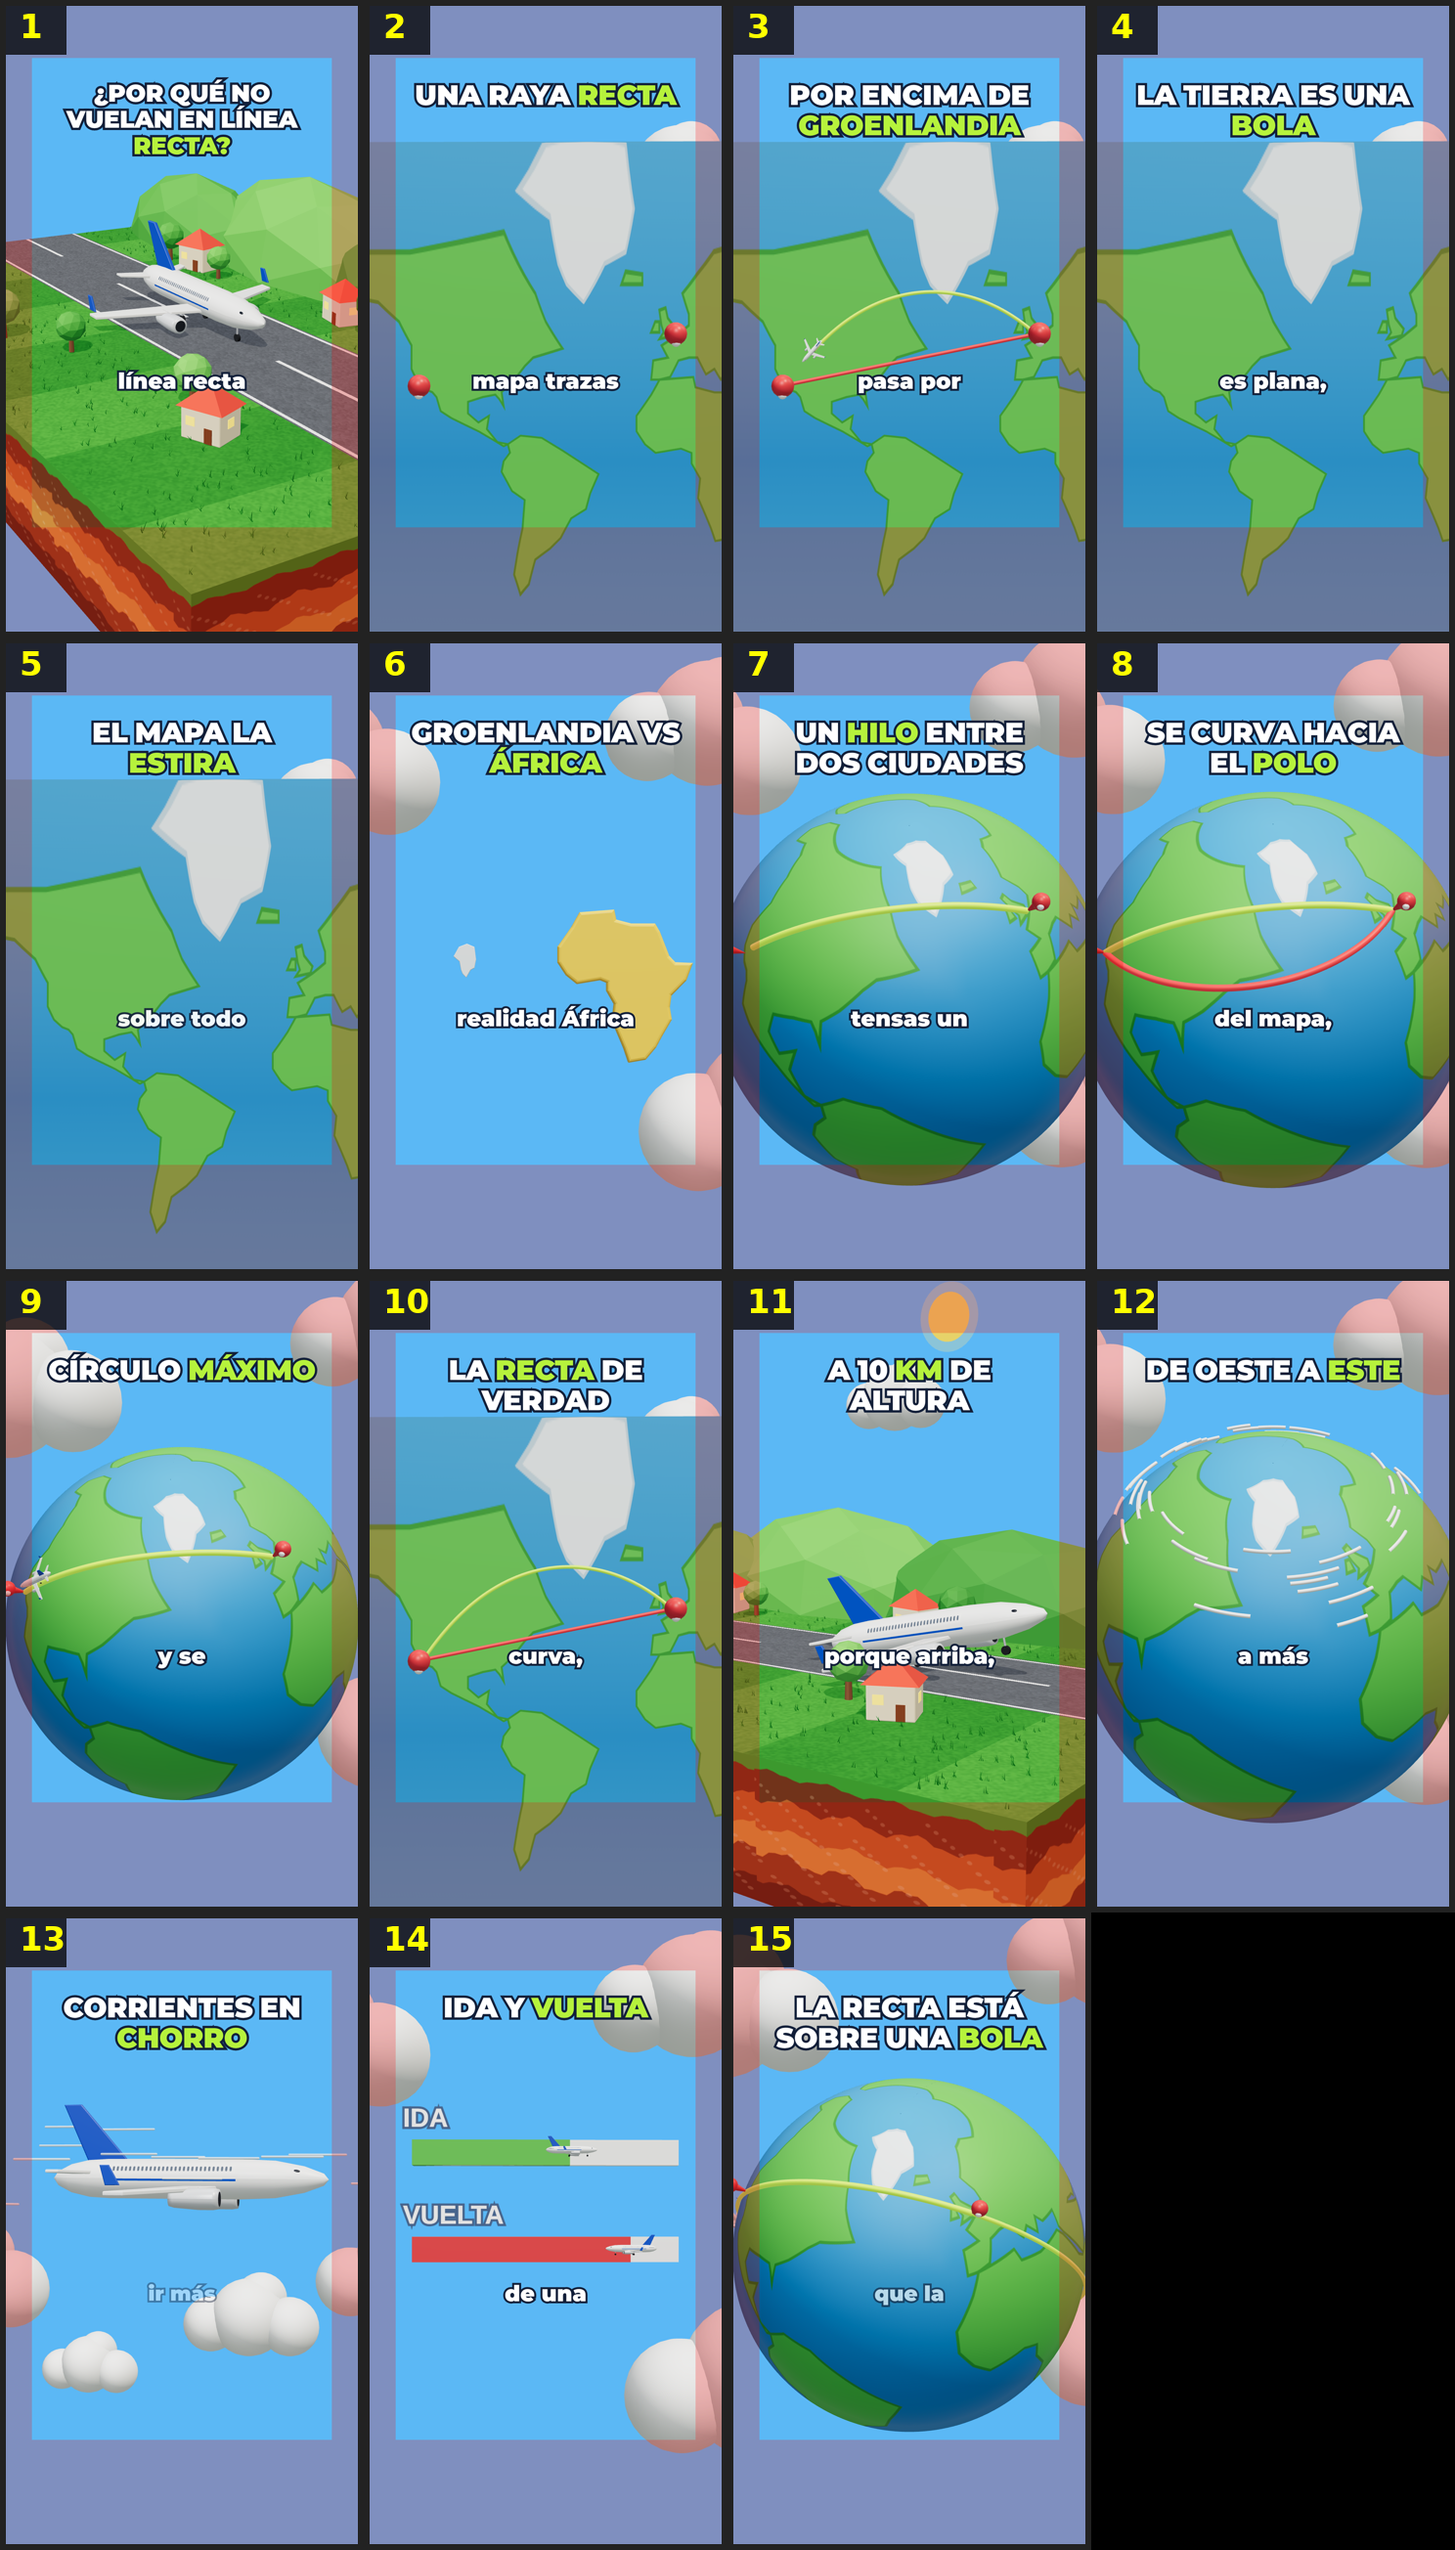
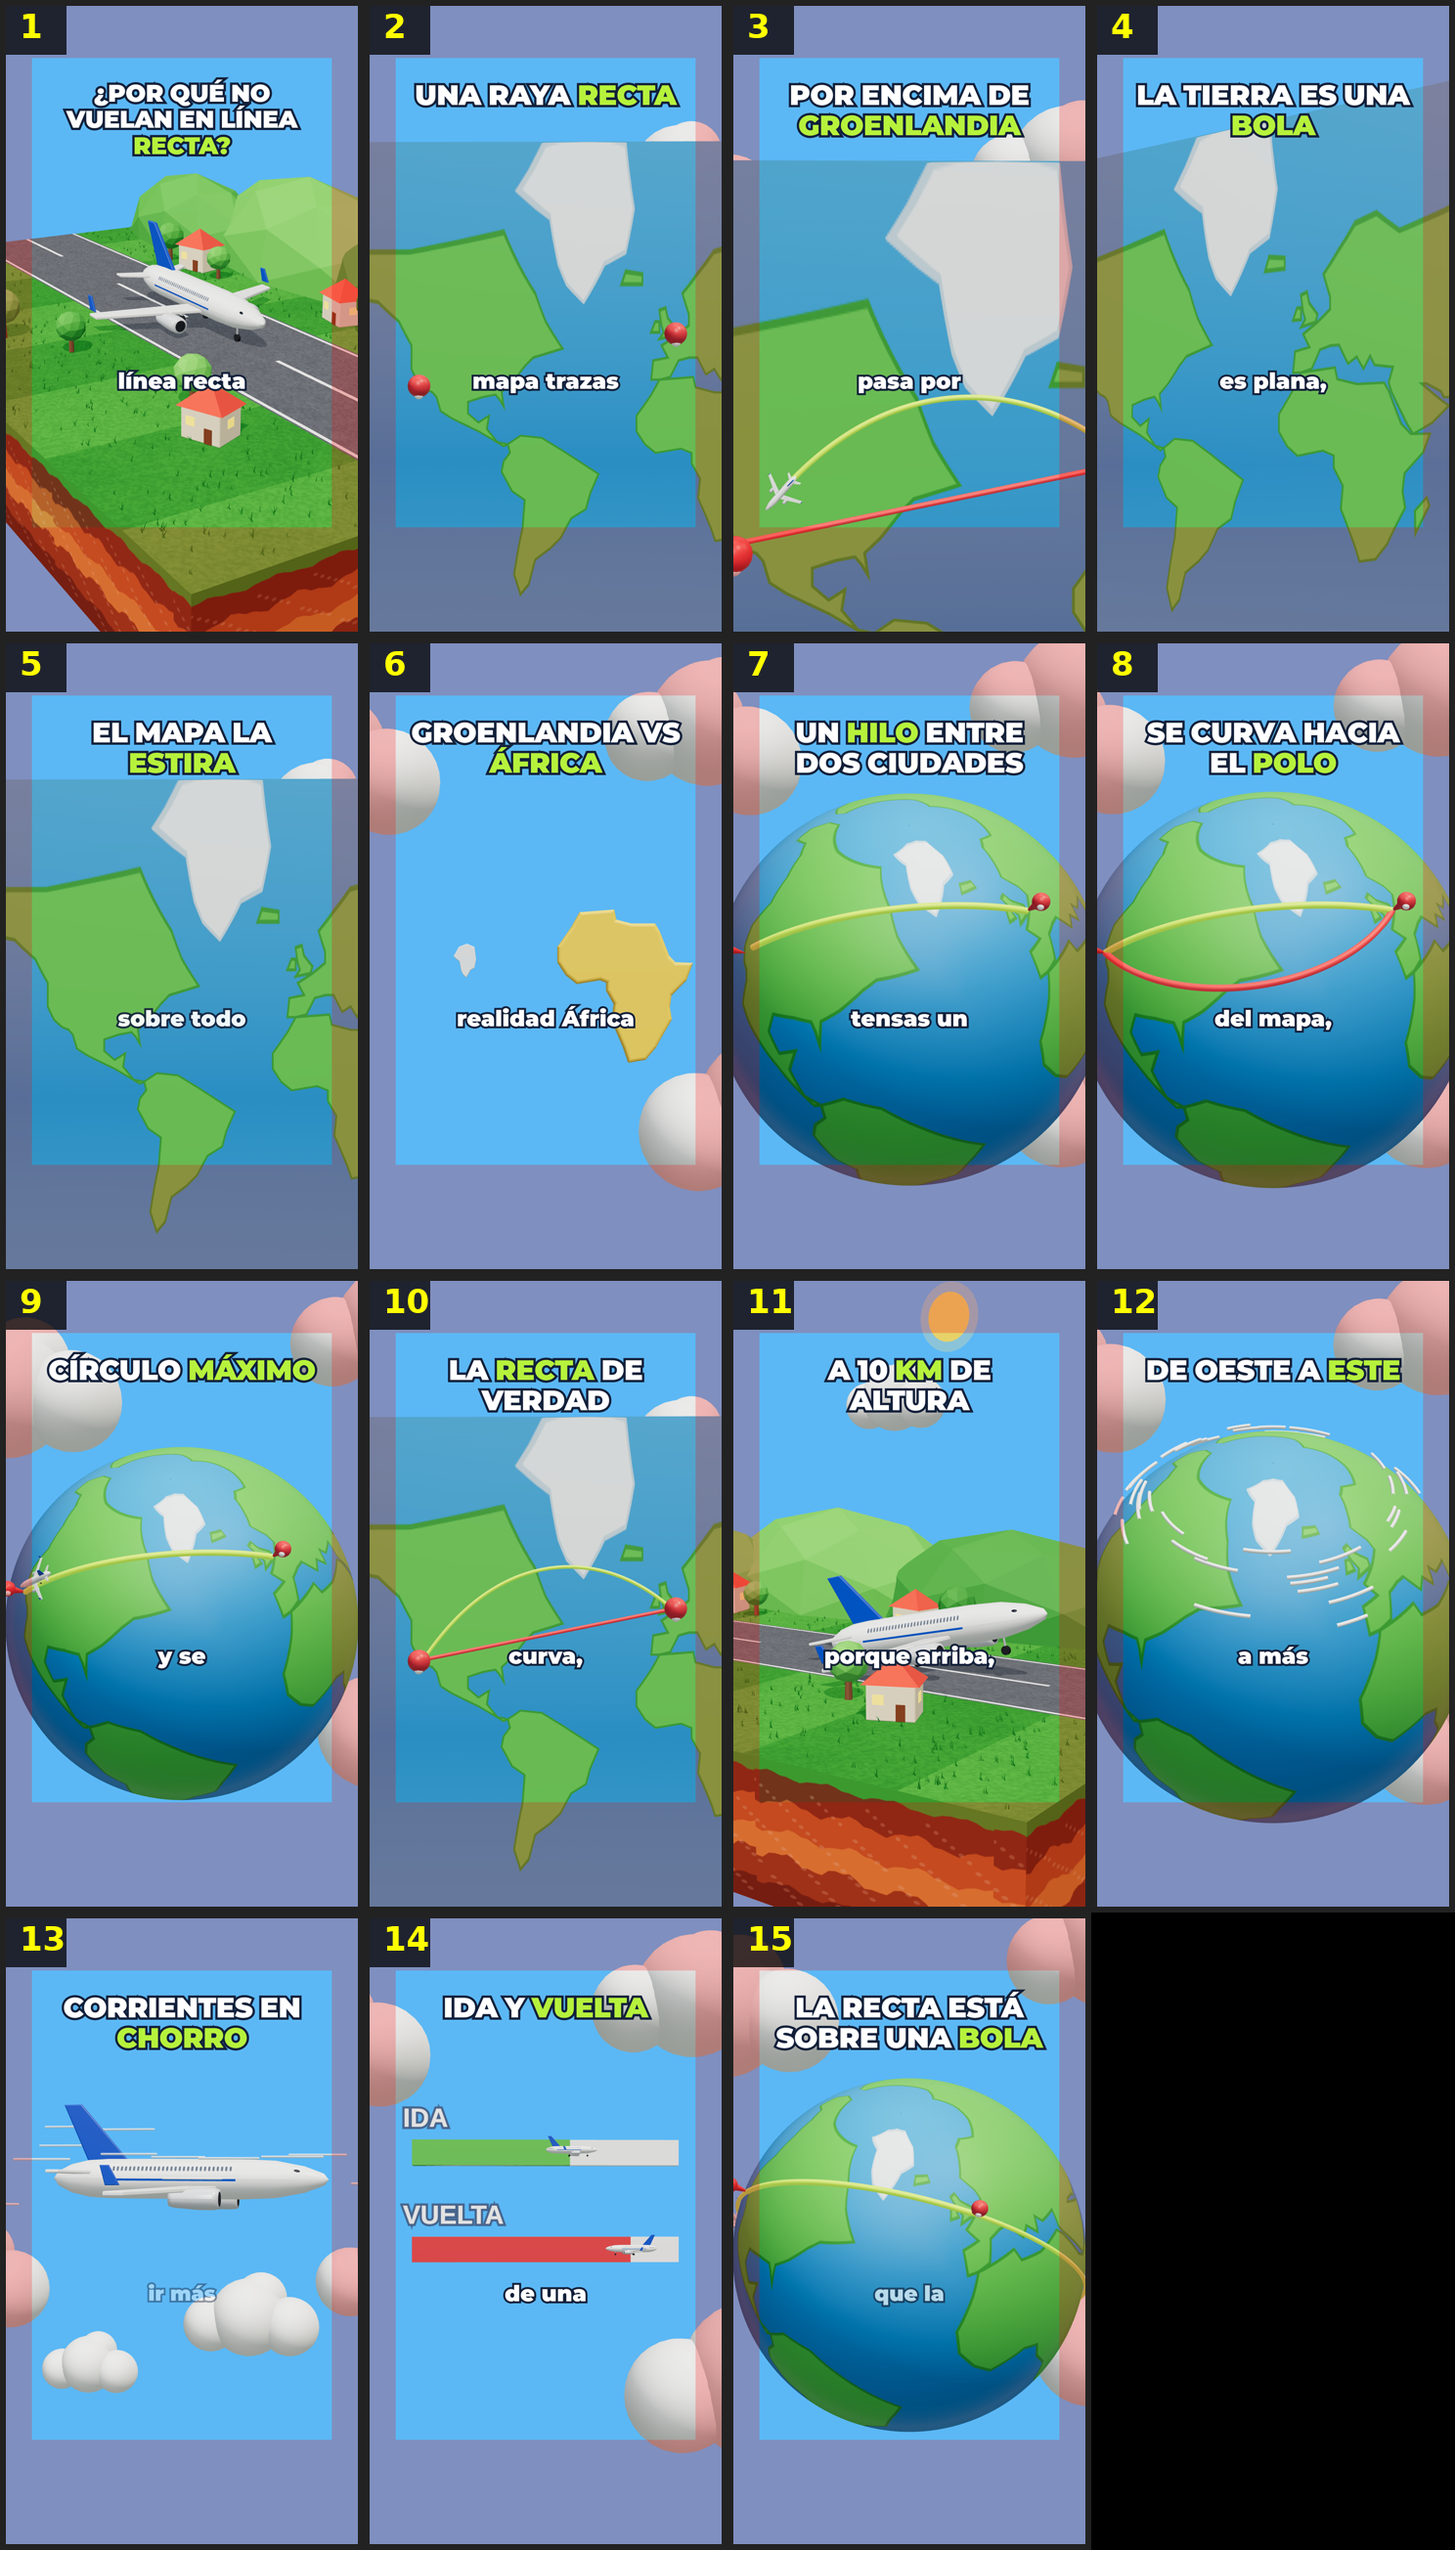
Plane-routes: distinct framing for the map scenes so every cut reads
Claude-Session: https://claude.ai/code/session_01F2TMiqHjkL4xcRcZuEi5yT

Changed region(s): [[0.4946, 0.0311, 1.0, 0.2485]]

diff --git a/videos/rutas-avion/visuals3d.ts b/videos/rutas-avion/visuals3d.ts
@@ -47,7 +47,8 @@ defineVisuals({
     build(w) {
       const E = raEarthSet(w), ic = w.add(raPlaneIcon(0.06));
       return (t) => { const u = p3Ramp(t, w.K('vuela'), w.K('vuela') + 2.4);   // RA_GC starts in London, so the green route trails the plane
-        E.pose(t, 1, { pins: 1, rh: 1, gc: u }); ic.visible = t >= w.K('vuela') - 0.1; ic.pose(RA_GC, u, 1, 0.3); raEarthCam(w, 1); };
+        E.pose(t, 1, { pins: 1, rh: 1, gc: u }); ic.visible = t >= w.K('vuela') - 0.1; ic.pose(RA_GC, u, 1, 0.3);
+        const v = raU(w, t); w.look([-1 + v, 2.8, 22.5 - v], [-0.3, 2.4, 0], 36); };   // closer and higher than the previous scene: toward Greenland
     },
   },
   // 4. the Earth is a ball: the map folds into a globe
@@ -55,7 +56,8 @@ defineVisuals({
     bg: RA.sky,
     build(w) {
       const E = raEarthSet(w);
-      return (t) => { const m = 1 - raGrow(t, w.K('bola')); E.pose(t, m, { spin: m < 0.01 ? (t - w.K('bola') - 0.5) * 6 : 0 }); raEarthCam(w, m, raU(w, t)); };
+      return (t) => { const m = 1 - raGrow(t, w.K('bola')); E.pose(t, m, { spin: m < 0.01 ? (t - w.K('bola') - 0.5) * 6 : 0 });
+        const a = 0.55 * m; w.look([Math.sin(a) * p3Lerp(15.5, 25, m), p3Lerp(1.2, -2.5, m), Math.cos(a) * p3Lerp(15.5, 25, m)], [0, p3Lerp(0.5, 1.4, m), 0], 36); };   // the map seen at an angle, then the globe head-on
     },
   },
   // 5. the map stretches it: the globe unrolls, the camera rises to the stretched north
